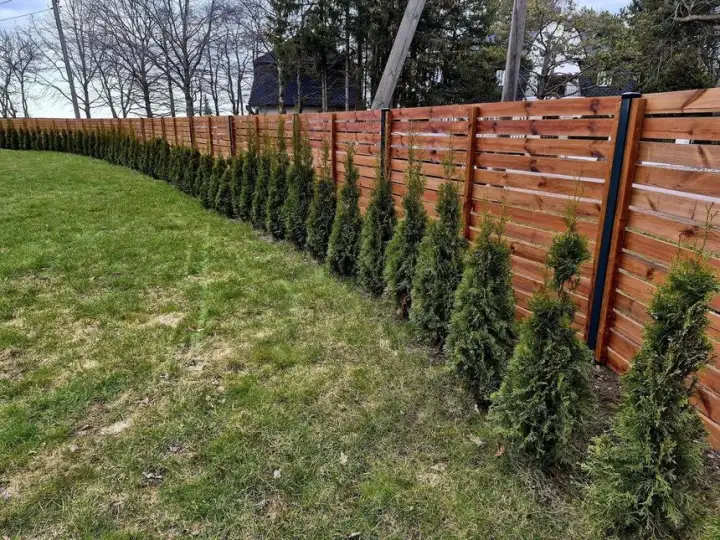
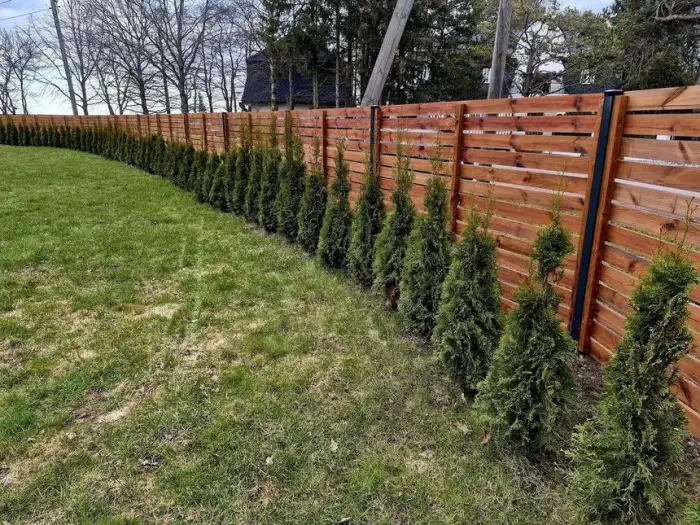
PSI 87->: kill latin-ext font download (reviewer name in Cyrillic), review-panel photos use light -mobile variants (-300KB), marquee width cached (fixes 95ms forced reflow), svc-wood/hero-mobile squeezed

diff --git a/ru/index.html b/ru/index.html
@@ -989,10 +989,10 @@ a:focus-visible,button:focus-visible,input:focus-visible,textarea:focus-visible,
       <!-- LEFT: Facebook business panel -->
       <div class="gbp-panel">
         <div class="gbp-photos">
-          <div class="gbp-photo-main" style="background:url('/img/luxaed-hero.webp') center/cover"></div>
+          <div class="gbp-photo-main" style="background:url('/img/luxaed-hero-mobile.webp') center/cover"></div>
           <div class="gbp-photo-stack">
-            <div style="background:url('/img/luxaed-svc-wood.webp') center/cover;flex:1;border-radius:0 12px 0 0"></div>
-            <div style="background:url('/img/luxaed-svc-mesh.webp') center/cover;flex:1;border-radius:0 0 12px 0"></div>
+            <div style="background:url('/img/luxaed-svc-wood-mobile.webp') center/cover;flex:1;border-radius:0 12px 0 0"></div>
+            <div style="background:url('/img/luxaed-svc-mesh-mobile.webp') center/cover;flex:1;border-radius:0 0 12px 0"></div>
           </div>
         </div>
         <div class="gbp-body">
@@ -1071,7 +1071,7 @@ a:focus-visible,button:focus-visible,input:focus-visible,textarea:focus-visible,
             <div class="gbp-rev-card"><div class="gbp-rev-top"><div class="ava" style="background:#9c27b0">J</div><div><div class="gr-name">Jev Genia</div><div class="gr-meta">Отзыв в Facebook</div></div></div><div class="gbp-rev-stars-row">★★★★★ <span class="gbp-rev-date">рекомендует</span></div><p class="gbp-rev-txt">Мы очень довольны выполненной работой. Ребята работают очень быстро, качественно, всё в срок. Профессионалы с большой буквы, искренне рекомендуем!</p><a class="gbp-rev-more" href="https://www.facebook.com/LuxxAed/reviews" target="_blank" rel="noopener">Смотреть в Facebook →</a></div>
             <div class="gbp-rev-card"><div class="gbp-rev-top"><div class="ava" style="background:#0b8043">K</div><div><div class="gr-name">Katerina Zazulina</div><div class="gr-meta">Отзыв в Facebook</div></div></div><div class="gbp-rev-stars-row">★★★★★ <span class="gbp-rev-date">рекомендует</span></div><p class="gbp-rev-txt">Рекомендую на 100%. Сделали всё мега быстро и качественно. Приятно иметь дело с профессионалами.</p><a class="gbp-rev-more" href="https://www.facebook.com/LuxxAed/reviews" target="_blank" rel="noopener">Смотреть в Facebook →</a></div>
             <div class="gbp-rev-card"><div class="gbp-rev-top"><div class="ava" style="background:#d44638">S</div><div><div class="gr-name">Svetlana Lepik</div><div class="gr-meta">Отзыв в Facebook</div></div></div><div class="gbp-rev-stars-row">★★★★★ <span class="gbp-rev-date">рекомендует</span></div><p class="gbp-rev-txt">Отлично всё сделали, быстро и качественно. Рекомендую эту фирму всем, кто хочет поставить себе забор. Всё сделали, как договаривались. Спасибо!</p><a class="gbp-rev-more" href="https://www.facebook.com/LuxxAed/reviews" target="_blank" rel="noopener">Смотреть в Facebook →</a></div>
-            <div class="gbp-rev-card"><div class="gbp-rev-top"><div class="ava" style="background:#1a73e8">A</div><div><div class="gr-name">Anna Tšižikova</div><div class="gr-meta">Отзыв в Facebook</div></div></div><div class="gbp-rev-stars-row">★★★★★ <span class="gbp-rev-date">рекомендует</span></div><p class="gbp-rev-txt">Очень довольна работой. Всё сделано быстро и профессионально! Обязательно рекомендую другим!</p><a class="gbp-rev-more" href="https://www.facebook.com/LuxxAed/reviews" target="_blank" rel="noopener">Смотреть в Facebook →</a></div>
+            <div class="gbp-rev-card"><div class="gbp-rev-top"><div class="ava" style="background:#1a73e8">A</div><div><div class="gr-name">Анна Чижикова</div><div class="gr-meta">Отзыв в Facebook</div></div></div><div class="gbp-rev-stars-row">★★★★★ <span class="gbp-rev-date">рекомендует</span></div><p class="gbp-rev-txt">Очень довольна работой. Всё сделано быстро и профессионально! Обязательно рекомендую другим!</p><a class="gbp-rev-more" href="https://www.facebook.com/LuxxAed/reviews" target="_blank" rel="noopener">Смотреть в Facebook →</a></div>
             <div class="gbp-rev-card"><div class="gbp-rev-top"><div class="ava" style="background:#34a853">Ю</div><div><div class="gr-name">Юлия Р.</div><div class="gr-meta">Отзыв в Facebook</div></div></div><div class="gbp-rev-stars-row">★★★★★ <span class="gbp-rev-date">рекомендует</span></div><p class="gbp-rev-txt">Очень довольны работой. Всё быстро, качественно и красиво. Рекомендую! Спасибо!</p><a class="gbp-rev-more" href="https://www.facebook.com/LuxxAed/reviews" target="_blank" rel="noopener">Смотреть в Facebook →</a></div>
             <div class="gbp-rev-card"><div class="gbp-rev-top"><div class="ava" style="background:#f4511e">M</div><div><div class="gr-name">Maia Ingerman</div><div class="gr-meta">Отзыв в Facebook</div></div></div><div class="gbp-rev-stars-row">★★★★★ <span class="gbp-rev-date">рекомендует</span></div><p class="gbp-rev-txt">Благодарю за качественно и быстро сделанную работу! Очень довольна взаимодействием с мастером, начиная с закупки материалов и заканчивая сдачей объекта. Все пожелания учтены. Рекомендую к сотрудничеству!</p><a class="gbp-rev-more" href="https://www.facebook.com/LuxxAed/reviews" target="_blank" rel="noopener">Смотреть в Facebook →</a></div>
             <div class="gbp-rev-card"><div class="gbp-rev-top"><div class="ava" style="background:#9c27b0">V</div><div><div class="gr-name">Vladimir Kutserov</div><div class="gr-meta">Отзыв в Facebook</div></div></div><div class="gbp-rev-stars-row">★★★★★ <span class="gbp-rev-date">рекомендует</span></div><p class="gbp-rev-txt">Взялись за работу оперативно! Сделали всё качественно и очень быстро. Ребята молодцы!</p><a class="gbp-rev-more" href="https://www.facebook.com/LuxxAed/reviews" target="_blank" rel="noopener">Смотреть в Facebook →</a></div>
@@ -1376,8 +1376,9 @@ return fetch('/api/lead/',{method:'POST',headers:{'Content-Type':'application/js
 (function(){var mob=matchMedia('(max-width:760px)'),rm=matchMedia('(prefers-reduced-motion: reduce)');document.querySelectorAll('.partners-marquee .pm-row').forEach(function(row){
 function setRate(r){row.querySelectorAll('.pm-set').forEach(function(set){set.getAnimations().forEach(function(a){a.playbackRate=r;});});}
 row.addEventListener('mouseenter',function(){if(!mob.matches)setRate(.3);});row.addEventListener('mouseleave',function(){setRate(1);});
-var rev=row.className.indexOf('pm-rev')>-1,set=row.querySelector('.pm-set'),hold=false,rt=null,on=false;
-function w(){return set?set.offsetWidth:0;}
+var rev=row.className.indexOf('pm-rev')>-1,set=row.querySelector('.pm-set'),hold=false,rt=null,on=false,ww=0;
+function w(){return ww>0?ww:(ww=set?set.offsetWidth:0);}
+window.addEventListener('resize',function(){ww=0;});
 function tick(){requestAnimationFrame(tick);if(!mob.matches||rm.matches||hold)return;var ww=w();if(ww<=0)return;row.scrollLeft+=rev?-0.75:0.75;if(!rev&&row.scrollLeft>=ww)row.scrollLeft-=ww;else if(rev&&row.scrollLeft<=0)row.scrollLeft+=ww;}
 function down(){hold=true;if(rt){clearTimeout(rt);rt=null;}}function up(){if(rt)clearTimeout(rt);rt=setTimeout(function(){hold=false;},1600);}
 row.addEventListener('touchstart',down,{passive:true});row.addEventListener('touchend',up,{passive:true});row.addEventListener('touchcancel',up,{passive:true});

diff --git a/en/index.html b/en/index.html
@@ -826,8 +826,8 @@ a:focus-visible,button:focus-visible,input:focus-visible,textarea:focus-visible,
 <section class="section"><div class="wrap"><span class="tag">Reviews on Facebook</span><h2 class="big" style="margin-bottom:32px">Trusted across Tallinn and Harjumaa</h2>
   <div class="gbp-wrap">
     <div class="gbp-panel">
-      <div class="gbp-photos"><div class="gbp-photo-main" style="background:url('/img/luxaed-hero.webp') center/cover"></div>
-        <div class="gbp-photo-stack"><div style="background:url('/img/luxaed-svc-wood.webp') center/cover;flex:1;border-radius:0 12px 0 0"></div><div style="background:url('/img/luxaed-svc-mesh.webp') center/cover;flex:1;border-radius:0 0 12px 0"></div></div></div>
+      <div class="gbp-photos"><div class="gbp-photo-main" style="background:url('/img/luxaed-hero-mobile.webp') center/cover"></div>
+        <div class="gbp-photo-stack"><div style="background:url('/img/luxaed-svc-wood-mobile.webp') center/cover;flex:1;border-radius:0 12px 0 0"></div><div style="background:url('/img/luxaed-svc-mesh-mobile.webp') center/cover;flex:1;border-radius:0 0 12px 0"></div></div></div>
       <div class="gbp-body">
         <div class="gbp-title-row"><h3 class="gbp-name">Fences and gates LuxAed</h3>
           <svg width="22" height="22" viewBox="0 0 24 24" fill="#1877F2" aria-hidden="true"><path d="M24 12.07C24 5.4 18.63 0 12 0S0 5.4 0 12.07C0 18.1 4.39 23.1 10.13 24v-8.44H7.08v-3.49h3.05V9.41c0-3.02 1.79-4.69 4.53-4.69 1.31 0 2.68.24 2.68.24v2.97h-1.51c-1.49 0-1.95.93-1.95 1.88v2.26h3.32l-.53 3.49h-2.79V24C19.61 23.1 24 18.1 24 12.07z"/></svg></div>
@@ -940,8 +940,9 @@ return fetch('/api/lead/',{method:'POST',headers:{'Content-Type':'application/js
 (function(){var mob=matchMedia('(max-width:760px)'),rm=matchMedia('(prefers-reduced-motion: reduce)');document.querySelectorAll('.partners-marquee .pm-row').forEach(function(row){
 function setRate(r){row.querySelectorAll('.pm-set').forEach(function(set){set.getAnimations().forEach(function(a){a.playbackRate=r;});});}
 row.addEventListener('mouseenter',function(){if(!mob.matches)setRate(.3);});row.addEventListener('mouseleave',function(){setRate(1);});
-var rev=row.className.indexOf('pm-rev')>-1,set=row.querySelector('.pm-set'),hold=false,rt=null,on=false;
-function w(){return set?set.offsetWidth:0;}
+var rev=row.className.indexOf('pm-rev')>-1,set=row.querySelector('.pm-set'),hold=false,rt=null,on=false,ww=0;
+function w(){return ww>0?ww:(ww=set?set.offsetWidth:0);}
+window.addEventListener('resize',function(){ww=0;});
 function tick(){requestAnimationFrame(tick);if(!mob.matches||rm.matches||hold)return;var ww=w();if(ww<=0)return;row.scrollLeft+=rev?-0.75:0.75;if(!rev&&row.scrollLeft>=ww)row.scrollLeft-=ww;else if(rev&&row.scrollLeft<=0)row.scrollLeft+=ww;}
 function down(){hold=true;if(rt){clearTimeout(rt);rt=null;}}function up(){if(rt)clearTimeout(rt);rt=setTimeout(function(){hold=false;},1600);}
 row.addEventListener('touchstart',down,{passive:true});row.addEventListener('touchend',up,{passive:true});row.addEventListener('touchcancel',up,{passive:true});

diff --git a/index.html b/index.html
@@ -826,8 +826,8 @@ a:focus-visible,button:focus-visible,input:focus-visible,textarea:focus-visible,
 <section class="section"><div class="wrap"><span class="tag">Arvustused Facebookis</span><h2 class="big" style="margin-bottom:32px">Meid usaldatakse Tallinnas ja Harjumaal</h2>
   <div class="gbp-wrap">
     <div class="gbp-panel">
-      <div class="gbp-photos"><div class="gbp-photo-main" style="background:url('/img/luxaed-hero.webp') center/cover"></div>
-        <div class="gbp-photo-stack"><div style="background:url('/img/luxaed-svc-wood.webp') center/cover;flex:1;border-radius:0 12px 0 0"></div><div style="background:url('/img/luxaed-svc-mesh.webp') center/cover;flex:1;border-radius:0 0 12px 0"></div></div></div>
+      <div class="gbp-photos"><div class="gbp-photo-main" style="background:url('/img/luxaed-hero-mobile.webp') center/cover"></div>
+        <div class="gbp-photo-stack"><div style="background:url('/img/luxaed-svc-wood-mobile.webp') center/cover;flex:1;border-radius:0 12px 0 0"></div><div style="background:url('/img/luxaed-svc-mesh-mobile.webp') center/cover;flex:1;border-radius:0 0 12px 0"></div></div></div>
       <div class="gbp-body">
         <div class="gbp-title-row"><h3 class="gbp-name">Aiad ja väravad LuxAed</h3>
           <svg width="22" height="22" viewBox="0 0 24 24" fill="#1877F2" aria-hidden="true"><path d="M24 12.07C24 5.4 18.63 0 12 0S0 5.4 0 12.07C0 18.1 4.39 23.1 10.13 24v-8.44H7.08v-3.49h3.05V9.41c0-3.02 1.79-4.69 4.53-4.69 1.31 0 2.68.24 2.68.24v2.97h-1.51c-1.49 0-1.95.93-1.95 1.88v2.26h3.32l-.53 3.49h-2.79V24C19.61 23.1 24 18.1 24 12.07z"/></svg></div>
@@ -940,8 +940,9 @@ return fetch('/api/lead/',{method:'POST',headers:{'Content-Type':'application/js
 (function(){var mob=matchMedia('(max-width:760px)'),rm=matchMedia('(prefers-reduced-motion: reduce)');document.querySelectorAll('.partners-marquee .pm-row').forEach(function(row){
 function setRate(r){row.querySelectorAll('.pm-set').forEach(function(set){set.getAnimations().forEach(function(a){a.playbackRate=r;});});}
 row.addEventListener('mouseenter',function(){if(!mob.matches)setRate(.3);});row.addEventListener('mouseleave',function(){setRate(1);});
-var rev=row.className.indexOf('pm-rev')>-1,set=row.querySelector('.pm-set'),hold=false,rt=null,on=false;
-function w(){return set?set.offsetWidth:0;}
+var rev=row.className.indexOf('pm-rev')>-1,set=row.querySelector('.pm-set'),hold=false,rt=null,on=false,ww=0;
+function w(){return ww>0?ww:(ww=set?set.offsetWidth:0);}
+window.addEventListener('resize',function(){ww=0;});
 function tick(){requestAnimationFrame(tick);if(!mob.matches||rm.matches||hold)return;var ww=w();if(ww<=0)return;row.scrollLeft+=rev?-0.75:0.75;if(!rev&&row.scrollLeft>=ww)row.scrollLeft-=ww;else if(rev&&row.scrollLeft<=0)row.scrollLeft+=ww;}
 function down(){hold=true;if(rt){clearTimeout(rt);rt=null;}}function up(){if(rt)clearTimeout(rt);rt=setTimeout(function(){hold=false;},1600);}
 row.addEventListener('touchstart',down,{passive:true});row.addEventListener('touchend',up,{passive:true});row.addEventListener('touchcancel',up,{passive:true});

diff --git a/aia-remont/index.html b/aia-remont/index.html
@@ -851,8 +851,9 @@ return fetch('/api/lead/',{method:'POST',headers:{'Content-Type':'application/js
 (function(){var mob=matchMedia('(max-width:760px)'),rm=matchMedia('(prefers-reduced-motion: reduce)');document.querySelectorAll('.partners-marquee .pm-row').forEach(function(row){
 function setRate(r){row.querySelectorAll('.pm-set').forEach(function(set){set.getAnimations().forEach(function(a){a.playbackRate=r;});});}
 row.addEventListener('mouseenter',function(){if(!mob.matches)setRate(.3);});row.addEventListener('mouseleave',function(){setRate(1);});
-var rev=row.className.indexOf('pm-rev')>-1,set=row.querySelector('.pm-set'),hold=false,rt=null,on=false;
-function w(){return set?set.offsetWidth:0;}
+var rev=row.className.indexOf('pm-rev')>-1,set=row.querySelector('.pm-set'),hold=false,rt=null,on=false,ww=0;
+function w(){return ww>0?ww:(ww=set?set.offsetWidth:0);}
+window.addEventListener('resize',function(){ww=0;});
 function tick(){requestAnimationFrame(tick);if(!mob.matches||rm.matches||hold)return;var ww=w();if(ww<=0)return;row.scrollLeft+=rev?-0.75:0.75;if(!rev&&row.scrollLeft>=ww)row.scrollLeft-=ww;else if(rev&&row.scrollLeft<=0)row.scrollLeft+=ww;}
 function down(){hold=true;if(rt){clearTimeout(rt);rt=null;}}function up(){if(rt)clearTimeout(rt);rt=setTimeout(function(){hold=false;},1600);}
 row.addEventListener('touchstart',down,{passive:true});row.addEventListener('touchend',up,{passive:true});row.addEventListener('touchcancel',up,{passive:true});

diff --git a/aiad/lippaed/index.html b/aiad/lippaed/index.html
@@ -851,8 +851,9 @@ return fetch('/api/lead/',{method:'POST',headers:{'Content-Type':'application/js
 (function(){var mob=matchMedia('(max-width:760px)'),rm=matchMedia('(prefers-reduced-motion: reduce)');document.querySelectorAll('.partners-marquee .pm-row').forEach(function(row){
 function setRate(r){row.querySelectorAll('.pm-set').forEach(function(set){set.getAnimations().forEach(function(a){a.playbackRate=r;});});}
 row.addEventListener('mouseenter',function(){if(!mob.matches)setRate(.3);});row.addEventListener('mouseleave',function(){setRate(1);});
-var rev=row.className.indexOf('pm-rev')>-1,set=row.querySelector('.pm-set'),hold=false,rt=null,on=false;
-function w(){return set?set.offsetWidth:0;}
+var rev=row.className.indexOf('pm-rev')>-1,set=row.querySelector('.pm-set'),hold=false,rt=null,on=false,ww=0;
+function w(){return ww>0?ww:(ww=set?set.offsetWidth:0);}
+window.addEventListener('resize',function(){ww=0;});
 function tick(){requestAnimationFrame(tick);if(!mob.matches||rm.matches||hold)return;var ww=w();if(ww<=0)return;row.scrollLeft+=rev?-0.75:0.75;if(!rev&&row.scrollLeft>=ww)row.scrollLeft-=ww;else if(rev&&row.scrollLeft<=0)row.scrollLeft+=ww;}
 function down(){hold=true;if(rt){clearTimeout(rt);rt=null;}}function up(){if(rt)clearTimeout(rt);rt=setTimeout(function(){hold=false;},1600);}
 row.addEventListener('touchstart',down,{passive:true});row.addEventListener('touchend',up,{passive:true});row.addEventListener('touchcancel',up,{passive:true});

diff --git a/aiad/metallaed/index.html b/aiad/metallaed/index.html
@@ -851,8 +851,9 @@ return fetch('/api/lead/',{method:'POST',headers:{'Content-Type':'application/js
 (function(){var mob=matchMedia('(max-width:760px)'),rm=matchMedia('(prefers-reduced-motion: reduce)');document.querySelectorAll('.partners-marquee .pm-row').forEach(function(row){
 function setRate(r){row.querySelectorAll('.pm-set').forEach(function(set){set.getAnimations().forEach(function(a){a.playbackRate=r;});});}
 row.addEventListener('mouseenter',function(){if(!mob.matches)setRate(.3);});row.addEventListener('mouseleave',function(){setRate(1);});
-var rev=row.className.indexOf('pm-rev')>-1,set=row.querySelector('.pm-set'),hold=false,rt=null,on=false;
-function w(){return set?set.offsetWidth:0;}
+var rev=row.className.indexOf('pm-rev')>-1,set=row.querySelector('.pm-set'),hold=false,rt=null,on=false,ww=0;
+function w(){return ww>0?ww:(ww=set?set.offsetWidth:0);}
+window.addEventListener('resize',function(){ww=0;});
 function tick(){requestAnimationFrame(tick);if(!mob.matches||rm.matches||hold)return;var ww=w();if(ww<=0)return;row.scrollLeft+=rev?-0.75:0.75;if(!rev&&row.scrollLeft>=ww)row.scrollLeft-=ww;else if(rev&&row.scrollLeft<=0)row.scrollLeft+=ww;}
 function down(){hold=true;if(rt){clearTimeout(rt);rt=null;}}function up(){if(rt)clearTimeout(rt);rt=setTimeout(function(){hold=false;},1600);}
 row.addEventListener('touchstart',down,{passive:true});row.addEventListener('touchend',up,{passive:true});row.addEventListener('touchcancel',up,{passive:true});

diff --git a/aiad/puitaed/index.html b/aiad/puitaed/index.html
@@ -851,8 +851,9 @@ return fetch('/api/lead/',{method:'POST',headers:{'Content-Type':'application/js
 (function(){var mob=matchMedia('(max-width:760px)'),rm=matchMedia('(prefers-reduced-motion: reduce)');document.querySelectorAll('.partners-marquee .pm-row').forEach(function(row){
 function setRate(r){row.querySelectorAll('.pm-set').forEach(function(set){set.getAnimations().forEach(function(a){a.playbackRate=r;});});}
 row.addEventListener('mouseenter',function(){if(!mob.matches)setRate(.3);});row.addEventListener('mouseleave',function(){setRate(1);});
-var rev=row.className.indexOf('pm-rev')>-1,set=row.querySelector('.pm-set'),hold=false,rt=null,on=false;
-function w(){return set?set.offsetWidth:0;}
+var rev=row.className.indexOf('pm-rev')>-1,set=row.querySelector('.pm-set'),hold=false,rt=null,on=false,ww=0;
+function w(){return ww>0?ww:(ww=set?set.offsetWidth:0);}
+window.addEventListener('resize',function(){ww=0;});
 function tick(){requestAnimationFrame(tick);if(!mob.matches||rm.matches||hold)return;var ww=w();if(ww<=0)return;row.scrollLeft+=rev?-0.75:0.75;if(!rev&&row.scrollLeft>=ww)row.scrollLeft-=ww;else if(rev&&row.scrollLeft<=0)row.scrollLeft+=ww;}
 function down(){hold=true;if(rt){clearTimeout(rt);rt=null;}}function up(){if(rt)clearTimeout(rt);rt=setTimeout(function(){hold=false;},1600);}
 row.addEventListener('touchstart',down,{passive:true});row.addEventListener('touchend',up,{passive:true});row.addEventListener('touchcancel',up,{passive:true});

diff --git a/aiad/vorkaed/index.html b/aiad/vorkaed/index.html
@@ -851,8 +851,9 @@ return fetch('/api/lead/',{method:'POST',headers:{'Content-Type':'application/js
 (function(){var mob=matchMedia('(max-width:760px)'),rm=matchMedia('(prefers-reduced-motion: reduce)');document.querySelectorAll('.partners-marquee .pm-row').forEach(function(row){
 function setRate(r){row.querySelectorAll('.pm-set').forEach(function(set){set.getAnimations().forEach(function(a){a.playbackRate=r;});});}
 row.addEventListener('mouseenter',function(){if(!mob.matches)setRate(.3);});row.addEventListener('mouseleave',function(){setRate(1);});
-var rev=row.className.indexOf('pm-rev')>-1,set=row.querySelector('.pm-set'),hold=false,rt=null,on=false;
-function w(){return set?set.offsetWidth:0;}
+var rev=row.className.indexOf('pm-rev')>-1,set=row.querySelector('.pm-set'),hold=false,rt=null,on=false,ww=0;
+function w(){return ww>0?ww:(ww=set?set.offsetWidth:0);}
+window.addEventListener('resize',function(){ww=0;});
 function tick(){requestAnimationFrame(tick);if(!mob.matches||rm.matches||hold)return;var ww=w();if(ww<=0)return;row.scrollLeft+=rev?-0.75:0.75;if(!rev&&row.scrollLeft>=ww)row.scrollLeft-=ww;else if(rev&&row.scrollLeft<=0)row.scrollLeft+=ww;}
 function down(){hold=true;if(rt){clearTimeout(rt);rt=null;}}function up(){if(rt)clearTimeout(rt);rt=setTimeout(function(){hold=false;},1600);}
 row.addEventListener('touchstart',down,{passive:true});row.addEventListener('touchend',up,{passive:true});row.addEventListener('touchcancel',up,{passive:true});

diff --git a/en/about/index.html b/en/about/index.html
@@ -845,8 +845,9 @@ return fetch('/api/lead/',{method:'POST',headers:{'Content-Type':'application/js
 (function(){var mob=matchMedia('(max-width:760px)'),rm=matchMedia('(prefers-reduced-motion: reduce)');document.querySelectorAll('.partners-marquee .pm-row').forEach(function(row){
 function setRate(r){row.querySelectorAll('.pm-set').forEach(function(set){set.getAnimations().forEach(function(a){a.playbackRate=r;});});}
 row.addEventListener('mouseenter',function(){if(!mob.matches)setRate(.3);});row.addEventListener('mouseleave',function(){setRate(1);});
-var rev=row.className.indexOf('pm-rev')>-1,set=row.querySelector('.pm-set'),hold=false,rt=null,on=false;
-function w(){return set?set.offsetWidth:0;}
+var rev=row.className.indexOf('pm-rev')>-1,set=row.querySelector('.pm-set'),hold=false,rt=null,on=false,ww=0;
+function w(){return ww>0?ww:(ww=set?set.offsetWidth:0);}
+window.addEventListener('resize',function(){ww=0;});
 function tick(){requestAnimationFrame(tick);if(!mob.matches||rm.matches||hold)return;var ww=w();if(ww<=0)return;row.scrollLeft+=rev?-0.75:0.75;if(!rev&&row.scrollLeft>=ww)row.scrollLeft-=ww;else if(rev&&row.scrollLeft<=0)row.scrollLeft+=ww;}
 function down(){hold=true;if(rt){clearTimeout(rt);rt=null;}}function up(){if(rt)clearTimeout(rt);rt=setTimeout(function(){hold=false;},1600);}
 row.addEventListener('touchstart',down,{passive:true});row.addEventListener('touchend',up,{passive:true});row.addEventListener('touchcancel',up,{passive:true});

diff --git a/en/faq/index.html b/en/faq/index.html
@@ -801,8 +801,9 @@ return fetch('/api/lead/',{method:'POST',headers:{'Content-Type':'application/js
 (function(){var mob=matchMedia('(max-width:760px)'),rm=matchMedia('(prefers-reduced-motion: reduce)');document.querySelectorAll('.partners-marquee .pm-row').forEach(function(row){
 function setRate(r){row.querySelectorAll('.pm-set').forEach(function(set){set.getAnimations().forEach(function(a){a.playbackRate=r;});});}
 row.addEventListener('mouseenter',function(){if(!mob.matches)setRate(.3);});row.addEventListener('mouseleave',function(){setRate(1);});
-var rev=row.className.indexOf('pm-rev')>-1,set=row.querySelector('.pm-set'),hold=false,rt=null,on=false;
-function w(){return set?set.offsetWidth:0;}
+var rev=row.className.indexOf('pm-rev')>-1,set=row.querySelector('.pm-set'),hold=false,rt=null,on=false,ww=0;
+function w(){return ww>0?ww:(ww=set?set.offsetWidth:0);}
+window.addEventListener('resize',function(){ww=0;});
 function tick(){requestAnimationFrame(tick);if(!mob.matches||rm.matches||hold)return;var ww=w();if(ww<=0)return;row.scrollLeft+=rev?-0.75:0.75;if(!rev&&row.scrollLeft>=ww)row.scrollLeft-=ww;else if(rev&&row.scrollLeft<=0)row.scrollLeft+=ww;}
 function down(){hold=true;if(rt){clearTimeout(rt);rt=null;}}function up(){if(rt)clearTimeout(rt);rt=setTimeout(function(){hold=false;},1600);}
 row.addEventListener('touchstart',down,{passive:true});row.addEventListener('touchend',up,{passive:true});row.addEventListener('touchcancel',up,{passive:true});

diff --git a/en/privacy/index.html b/en/privacy/index.html
@@ -801,8 +801,9 @@ return fetch('/api/lead/',{method:'POST',headers:{'Content-Type':'application/js
 (function(){var mob=matchMedia('(max-width:760px)'),rm=matchMedia('(prefers-reduced-motion: reduce)');document.querySelectorAll('.partners-marquee .pm-row').forEach(function(row){
 function setRate(r){row.querySelectorAll('.pm-set').forEach(function(set){set.getAnimations().forEach(function(a){a.playbackRate=r;});});}
 row.addEventListener('mouseenter',function(){if(!mob.matches)setRate(.3);});row.addEventListener('mouseleave',function(){setRate(1);});
-var rev=row.className.indexOf('pm-rev')>-1,set=row.querySelector('.pm-set'),hold=false,rt=null,on=false;
-function w(){return set?set.offsetWidth:0;}
+var rev=row.className.indexOf('pm-rev')>-1,set=row.querySelector('.pm-set'),hold=false,rt=null,on=false,ww=0;
+function w(){return ww>0?ww:(ww=set?set.offsetWidth:0);}
+window.addEventListener('resize',function(){ww=0;});
 function tick(){requestAnimationFrame(tick);if(!mob.matches||rm.matches||hold)return;var ww=w();if(ww<=0)return;row.scrollLeft+=rev?-0.75:0.75;if(!rev&&row.scrollLeft>=ww)row.scrollLeft-=ww;else if(rev&&row.scrollLeft<=0)row.scrollLeft+=ww;}
 function down(){hold=true;if(rt){clearTimeout(rt);rt=null;}}function up(){if(rt)clearTimeout(rt);rt=setTimeout(function(){hold=false;},1600);}
 row.addEventListener('touchstart',down,{passive:true});row.addEventListener('touchend',up,{passive:true});row.addEventListener('touchcancel',up,{passive:true});

diff --git a/en/services/fence-repair/index.html b/en/services/fence-repair/index.html
@@ -851,8 +851,9 @@ return fetch('/api/lead/',{method:'POST',headers:{'Content-Type':'application/js
 (function(){var mob=matchMedia('(max-width:760px)'),rm=matchMedia('(prefers-reduced-motion: reduce)');document.querySelectorAll('.partners-marquee .pm-row').forEach(function(row){
 function setRate(r){row.querySelectorAll('.pm-set').forEach(function(set){set.getAnimations().forEach(function(a){a.playbackRate=r;});});}
 row.addEventListener('mouseenter',function(){if(!mob.matches)setRate(.3);});row.addEventListener('mouseleave',function(){setRate(1);});
-var rev=row.className.indexOf('pm-rev')>-1,set=row.querySelector('.pm-set'),hold=false,rt=null,on=false;
-function w(){return set?set.offsetWidth:0;}
+var rev=row.className.indexOf('pm-rev')>-1,set=row.querySelector('.pm-set'),hold=false,rt=null,on=false,ww=0;
+function w(){return ww>0?ww:(ww=set?set.offsetWidth:0);}
+window.addEventListener('resize',function(){ww=0;});
 function tick(){requestAnimationFrame(tick);if(!mob.matches||rm.matches||hold)return;var ww=w();if(ww<=0)return;row.scrollLeft+=rev?-0.75:0.75;if(!rev&&row.scrollLeft>=ww)row.scrollLeft-=ww;else if(rev&&row.scrollLeft<=0)row.scrollLeft+=ww;}
 function down(){hold=true;if(rt){clearTimeout(rt);rt=null;}}function up(){if(rt)clearTimeout(rt);rt=setTimeout(function(){hold=false;},1600);}
 row.addEventListener('touchstart',down,{passive:true});row.addEventListener('touchend',up,{passive:true});row.addEventListener('touchcancel',up,{passive:true});